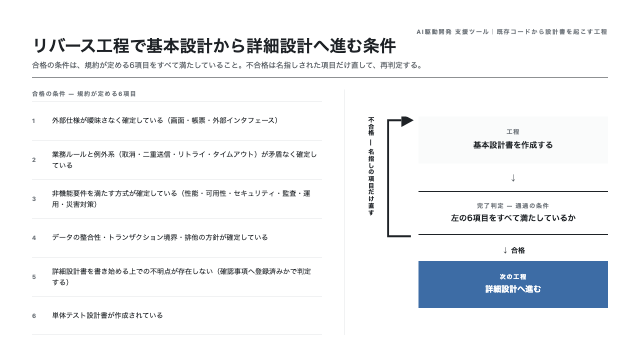
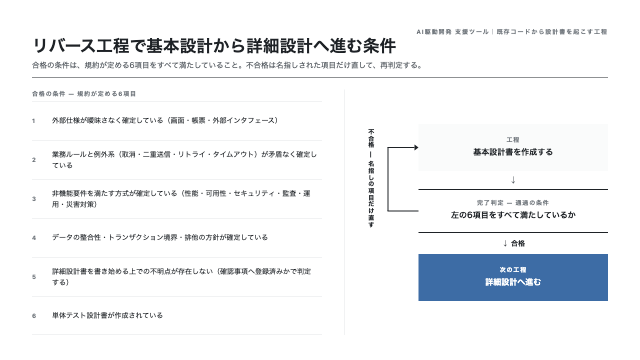
【修正】基本設計の完了判定スライドの右側の図の位置ずれを直す

Changed region(s): [[0.5938, 0.5194, 0.9688, 0.8556], [0.5625, 0.3056, 0.6562, 0.6417], [0.7188, 0.3361, 0.875, 0.4583]]

diff --git a/slides/リバース工程-基本設計の完了判定/解説スライド.html b/slides/リバース工程-基本設計の完了判定/解説スライド.html
@@ -16,12 +16,30 @@
   .cond-row .txt{ font-size:14px; line-height:1.55; color:var(--ink); text-wrap:pretty; }
 
   .flow-col{ display:flex; flex-direction:column; justify-content:center; min-height:0; border-left:1px solid var(--faint); padding-left:44px; }
-  .flow-grid{ display:grid; grid-template-columns:104px 1fr; }
-  .loop{ grid-row:1 / 4; display:flex; align-items:stretch; gap:10px; }
-  .loop-label{ flex:0 0 auto; display:flex; align-items:center; writing-mode:vertical-rl; white-space:nowrap; font-size:12px; font-weight:700; letter-spacing:.12em; color:var(--ink); }
-  .loop-svg{ flex:1 1 auto; min-width:0; height:100%; }
+  /* 列: ラベル(18px) / すきま(10px) / 折れ線(76px) / 箱(残り)。合計104pxは旧レイアウトの
+     左列幅と同じ。折れ線を1本のSVGで3行にまたがらせず行ごとの要素へ分けるのは、
+     縦書きラベルの必要高さが箱の高さの合計を上回り、グリッドの行が均等に伸びる
+     （2026-09-07実測）ため。行ごとに分ければ、伸びた行の中でも「工程」「完了判定」の
+     箱と同じ上詰め・同じ高さ（94px・88px）で揃い、矢印の位置を箱の高さから直接出せる。 */
+  .flow-grid{ display:grid; grid-template-columns:18px 10px 76px 1fr; }
 
-  .stage-box, .gate-box, .next-box{ grid-column:2; display:flex; flex-direction:column; align-items:center; justify-content:center; text-align:center; gap:7px; padding:12px; }
+  .loop-label{ grid-column:1; grid-row:1 / 4; display:flex; align-items:center; justify-content:center; writing-mode:vertical-rl; white-space:nowrap; font-size:12px; font-weight:700; letter-spacing:.12em; color:var(--ink); }
+
+  /* 折れ線の3区画。左端の位置(14px)は列内で揃えるための固定値、縦の起点・終点は
+     箱の高さの半分（工程94px→47px・完了判定88px→44px）から出す。 */
+  .loop-seg{ grid-column:3; position:relative; }
+  .loop-seg-top{ grid-row:1; }
+  .loop-seg-mid{ grid-row:2; }
+  .loop-seg-bottom{ grid-row:3; }
+  .loop-seg .trunk{ position:absolute; left:14px; width:2px; background:var(--ink); }
+  .loop-seg-top .trunk{ top:47px; bottom:0; } /* 94px(工程の箱の高さ) / 2 */
+  .loop-seg-mid .trunk{ top:0; bottom:0; }
+  .loop-seg-bottom .trunk{ top:0; height:44px; } /* 88px(完了判定の箱の高さ) / 2 */
+  .loop-seg-top .stub{ position:absolute; left:14px; right:8px; top:46px; height:2px; background:var(--ink); }
+  .loop-seg-top .arrowhead{ position:absolute; right:0; top:41px; width:0; height:0; border-top:6px solid transparent; border-bottom:6px solid transparent; border-left:8px solid var(--ink); }
+  .loop-seg-bottom .stub{ position:absolute; left:14px; right:0; top:43px; height:2px; background:var(--ink); }
+
+  .stage-box, .gate-box, .next-box{ grid-column:4; display:flex; flex-direction:column; align-items:center; justify-content:center; text-align:center; gap:7px; padding:12px; }
   .stage-box{ background:var(--surface-2); height:94px; }
   .gate-box{ gap:6px; border-top:2px solid var(--ink); border-bottom:2px solid var(--ink); height:88px; padding:10px 12px; }
   .next-box{ background:var(--accent); height:94px; }
@@ -30,7 +48,7 @@
   .stage-box .val, .gate-box .val, .next-box .val{ font-size:16px; font-weight:600; line-height:1.55; white-space:nowrap; color:var(--ink); }
   .next-box .lbl, .next-box .val{ color:var(--surface); }
 
-  .flow-arrow{ grid-column:2; display:flex; align-items:center; justify-content:center; height:36px; font-size:16px; color:var(--muted); }
+  .flow-arrow{ grid-column:4; display:flex; align-items:center; justify-content:center; height:36px; font-size:16px; color:var(--muted); }
   .flow-arrow.pass{ height:42px; font-size:14px; font-weight:600; color:var(--ink); }
 </style>
 <link rel="stylesheet" data-shared-slide-shell href="../../assets/shared-slide-shell.css">
@@ -60,12 +78,18 @@
       </div>
       <div class="flow-col">
         <div class="flow-grid">
-          <div class="loop">
-            <span class="loop-label">不合格 — 名指しの項目だけ直す</span>
-            <svg class="loop-svg" viewBox="0 0 40 130" preserveAspectRatio="none" role="presentation" aria-hidden="true">
-              <path d="M 32 126 H 8 V 4 H 22" fill="none" stroke="var(--ink)" stroke-width="2"></path>
-              <polygon points="22,-3 22,11 35,4" fill="var(--ink)"></polygon>
-            </svg>
+          <span class="loop-label">不合格 — 名指しの項目だけ直す</span>
+          <div class="loop-seg loop-seg-top" aria-hidden="true">
+            <span class="trunk"></span>
+            <span class="stub"></span>
+            <span class="arrowhead"></span>
+          </div>
+          <div class="loop-seg loop-seg-mid" aria-hidden="true">
+            <span class="trunk"></span>
+          </div>
+          <div class="loop-seg loop-seg-bottom" aria-hidden="true">
+            <span class="trunk"></span>
+            <span class="stub"></span>
           </div>
           <div class="stage-box">
             <span class="lbl">工程</span>

diff --git a/index.html b/index.html
@@ -1782,7 +1782,7 @@ const SLIDES = [
     "template": "",
     "date": "2026-09-06",
     "updated": "2026-09-06",
-    "updatedAt": "2026-09-06T18:11:39+09:00"
+    "updatedAt": "2026-09-06T21:31:00+09:00"
   }
 ];
 const PACKS = [

diff --git a/slides/リバース工程-基本設計の完了判定/検査記録.md b/slides/リバース工程-基本設計の完了判定/検査記録.md
@@ -41,3 +41,5 @@
 ## 2026-09-06: kicker を共通文言に統一
 
 kicker を共通文言に統一（ユーザー指示）
+
+右側の図の矢印・折れ線・ラベルの位置ずれを直す（ユーザー指摘）
